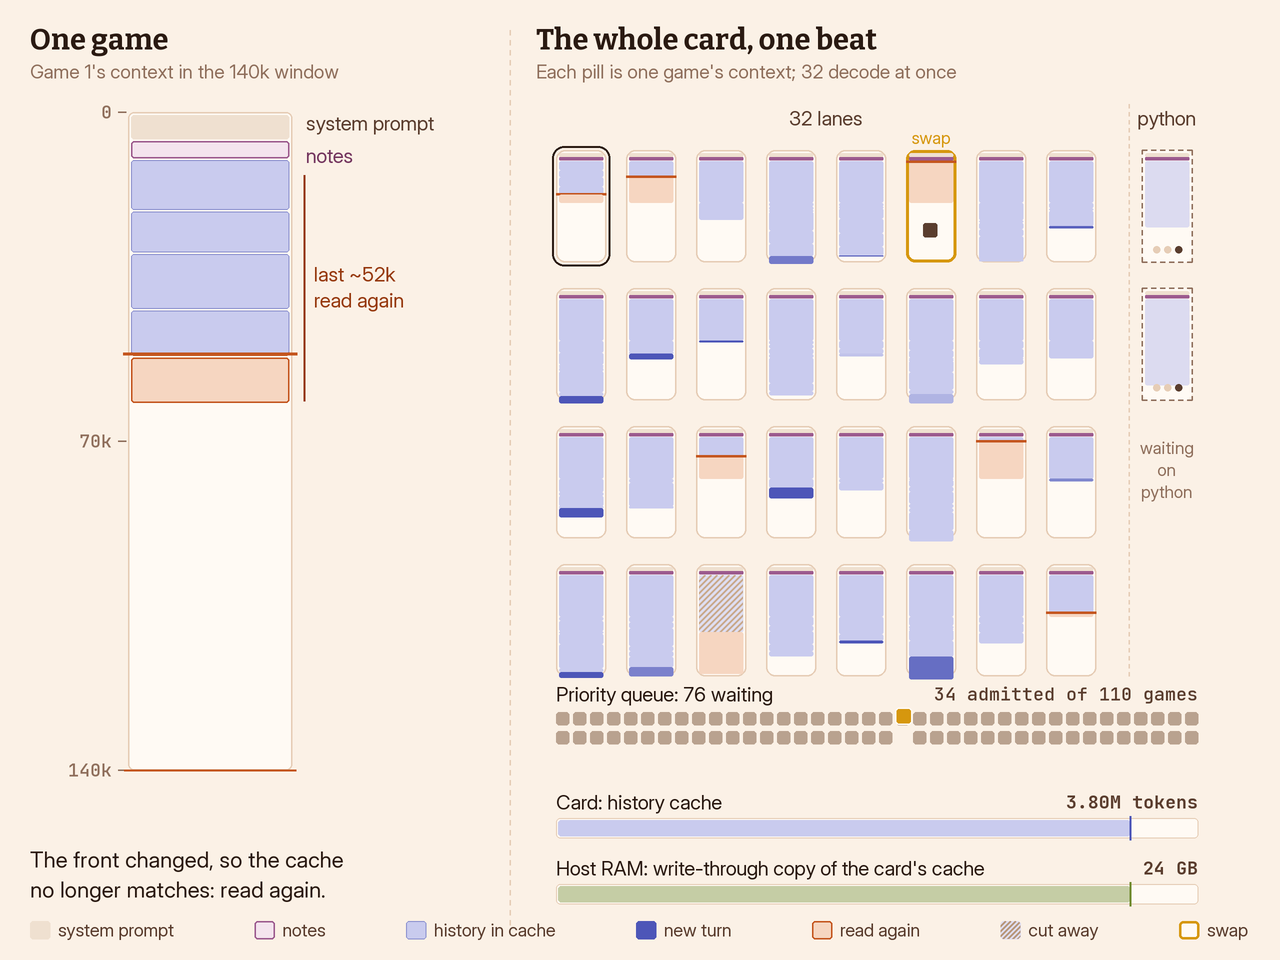
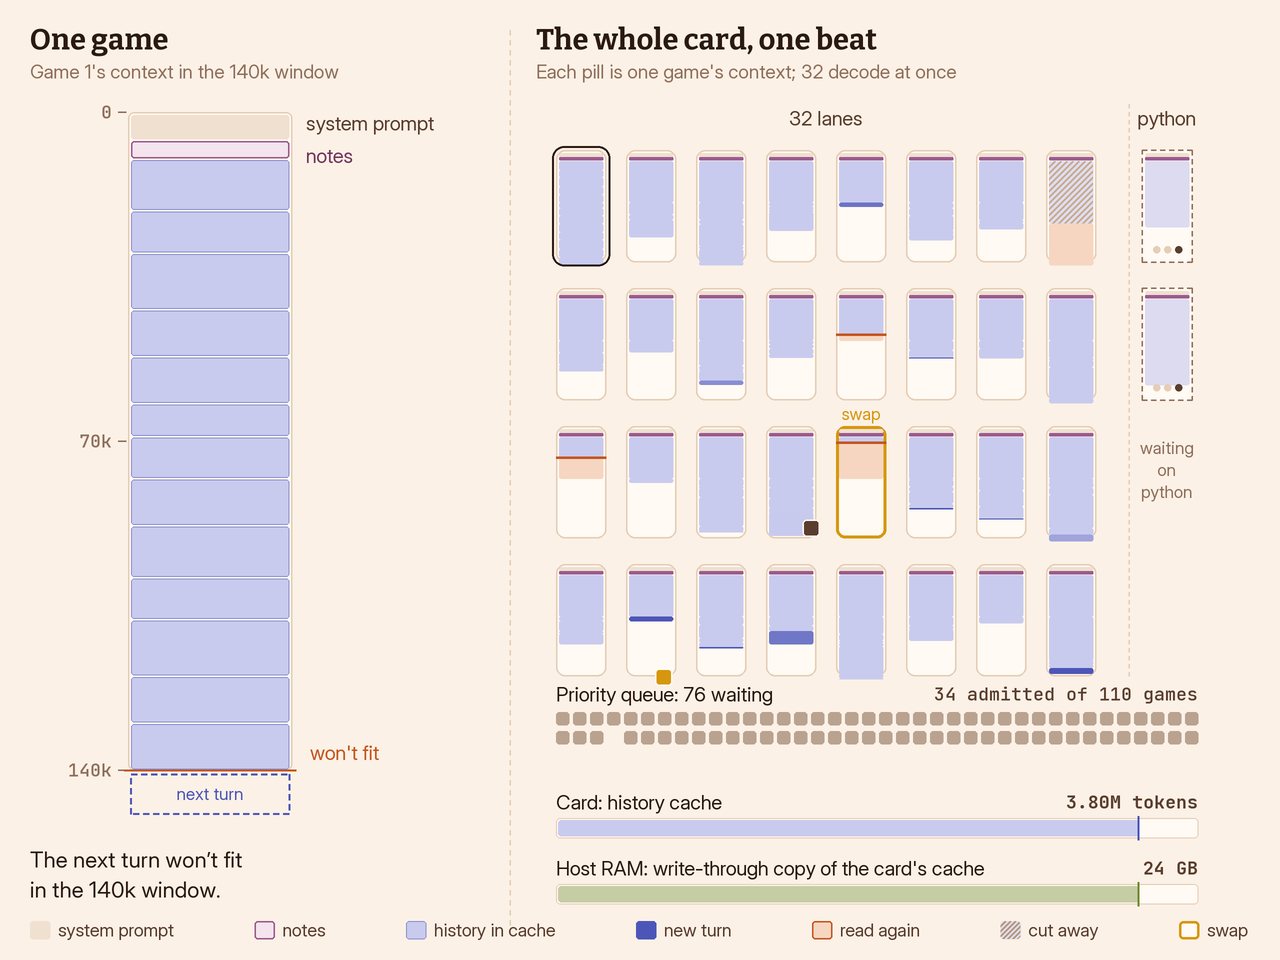
Turducken 1.1: trim animation poster shows the full window and a swap in flight (Claude Opus 5.5 Medium)

diff --git a/client/public/specials/arc3-solution-draft/charts/make_trim_animation.py b/client/public/specials/arc3-solution-draft/charts/make_trim_animation.py
@@ -46,7 +46,7 @@ S = 2                      # supersampling factor
 FPS = 15
 LOOP = 18.0                # seconds; every motion below is periodic in LOOP
 NFRAMES = int(LOOP * FPS)  # 270; frame NFRAMES would equal frame 0, so it is not drawn
-POSTER_T = 16.4            # late re-read on the left, a swap in flight on the right
+POSTER_T = 11.7            # window full and the next turn won't fit; a swap in flight on the right
 
 # Warm "turducken workshop" palette, copied from the page's CSS overrides.
 BG = '#fbf1e6'          # --panel (the figure background the image sits on)
